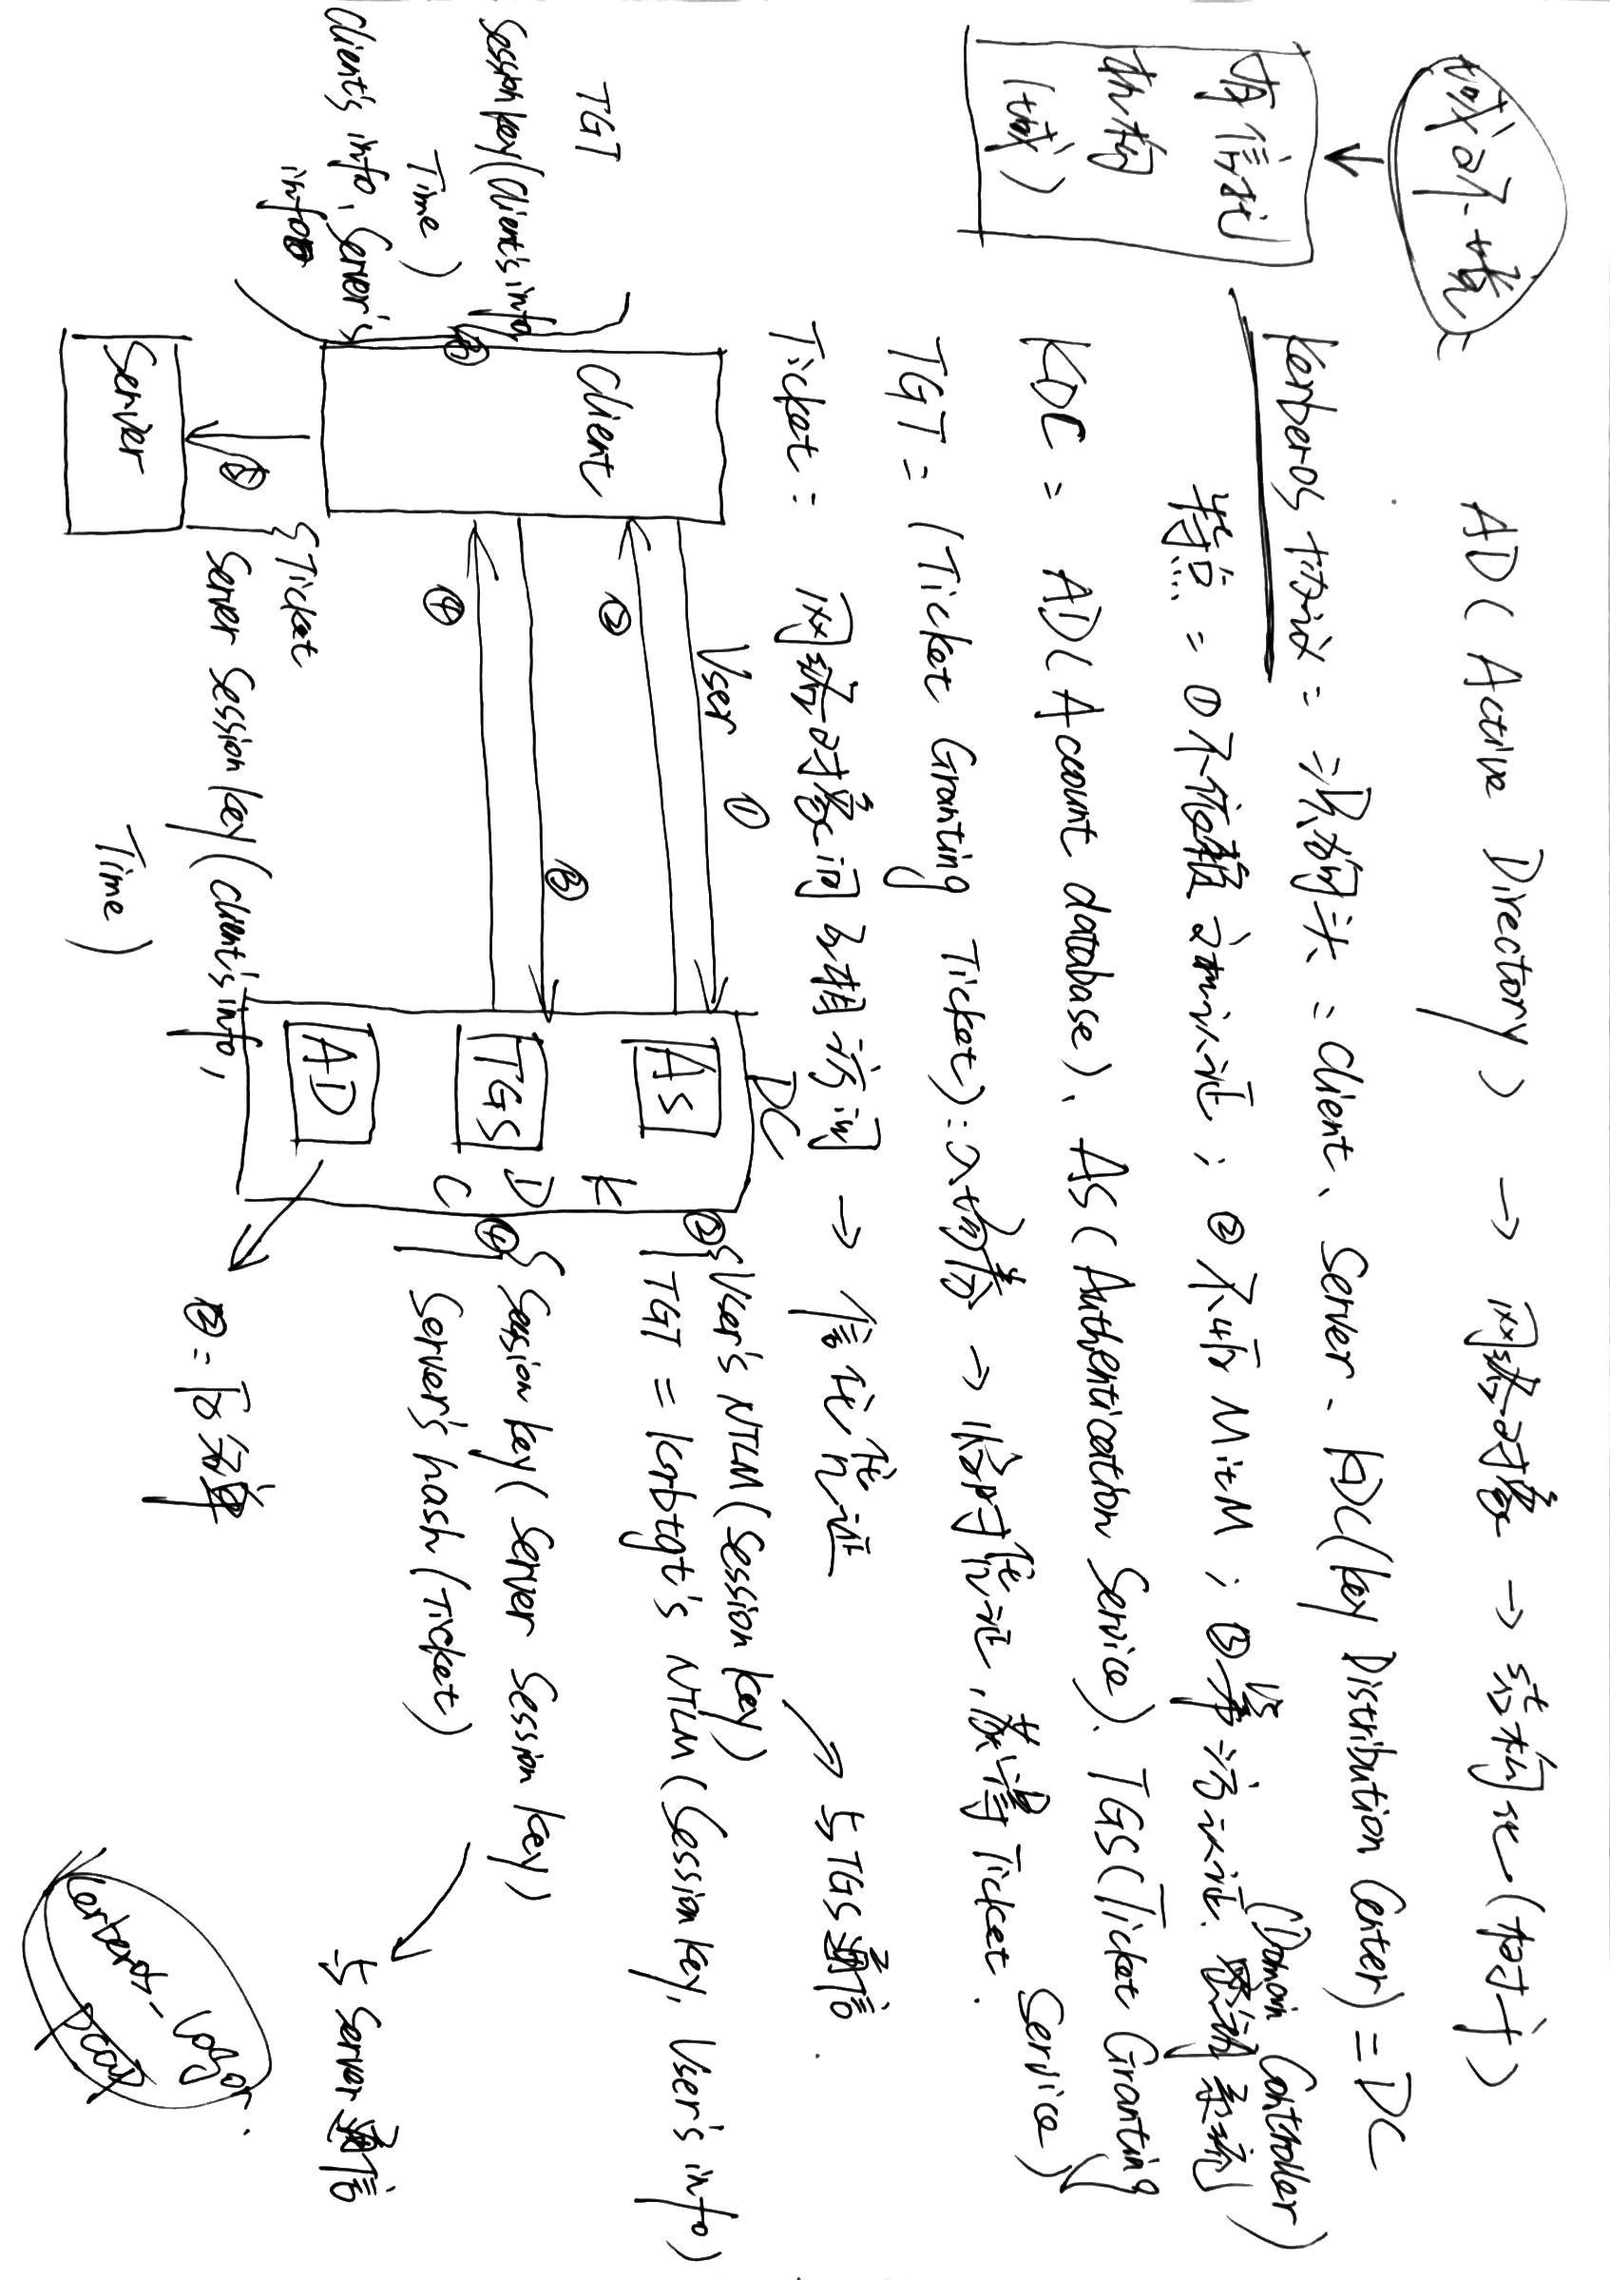
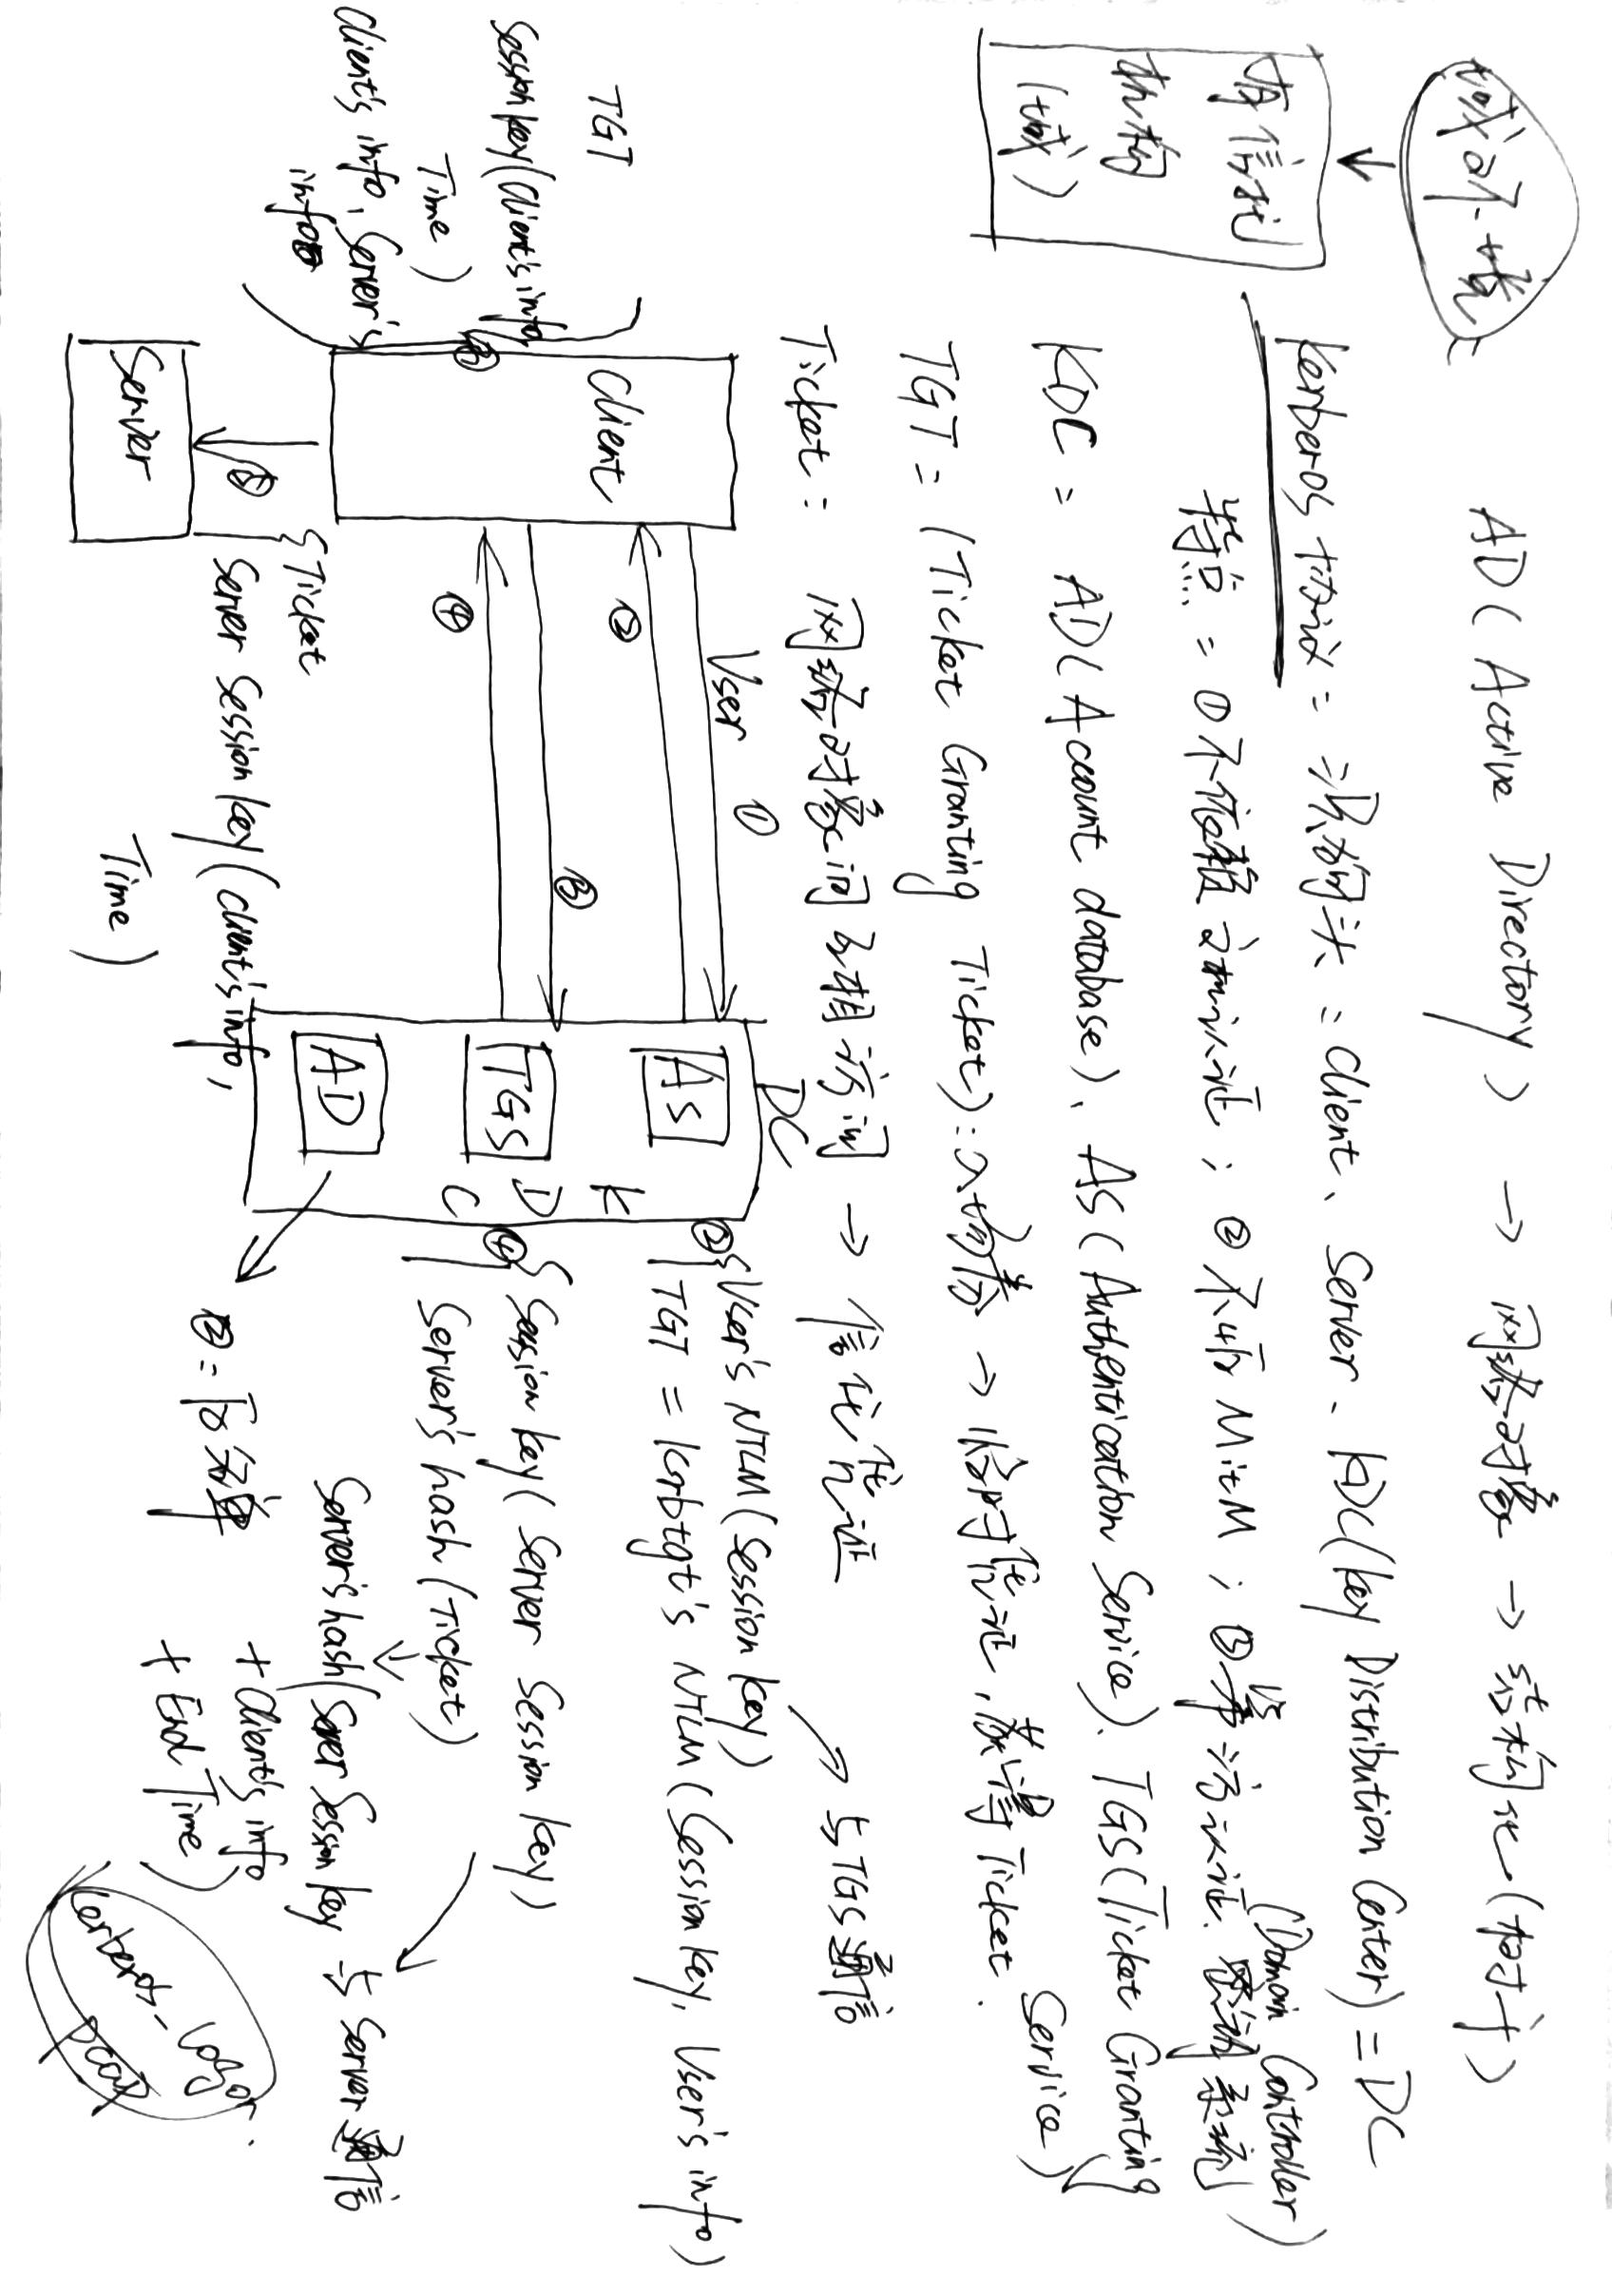
Update Windows authentication: NTLMv2 and Kerberos

diff --git a/_posts/2020-04-02-Windows网络认证机制（NTLMv2、Kerberos）分析.md b/_posts/2020-04-02-Windows网络认证机制（NTLMv2、Kerberos）分析.md
@@ -24,3 +24,9 @@ NTLMv2：远程登录SMB共享目录（从本机抓取）
 Kerberos：登陆域内主机（从域控抓取）
 
 [Kerberos_logon.pcap](/assets/images/2020-04-02/Kerberos_logon.pcap)
+
+## 攻击手法
+
+攻击NTLM、Kerberos
+
+![NTLM_Kerberos_attack.jpg](/assets/images/2020-04-02/NTLM_Kerberos_attack.jpg)
